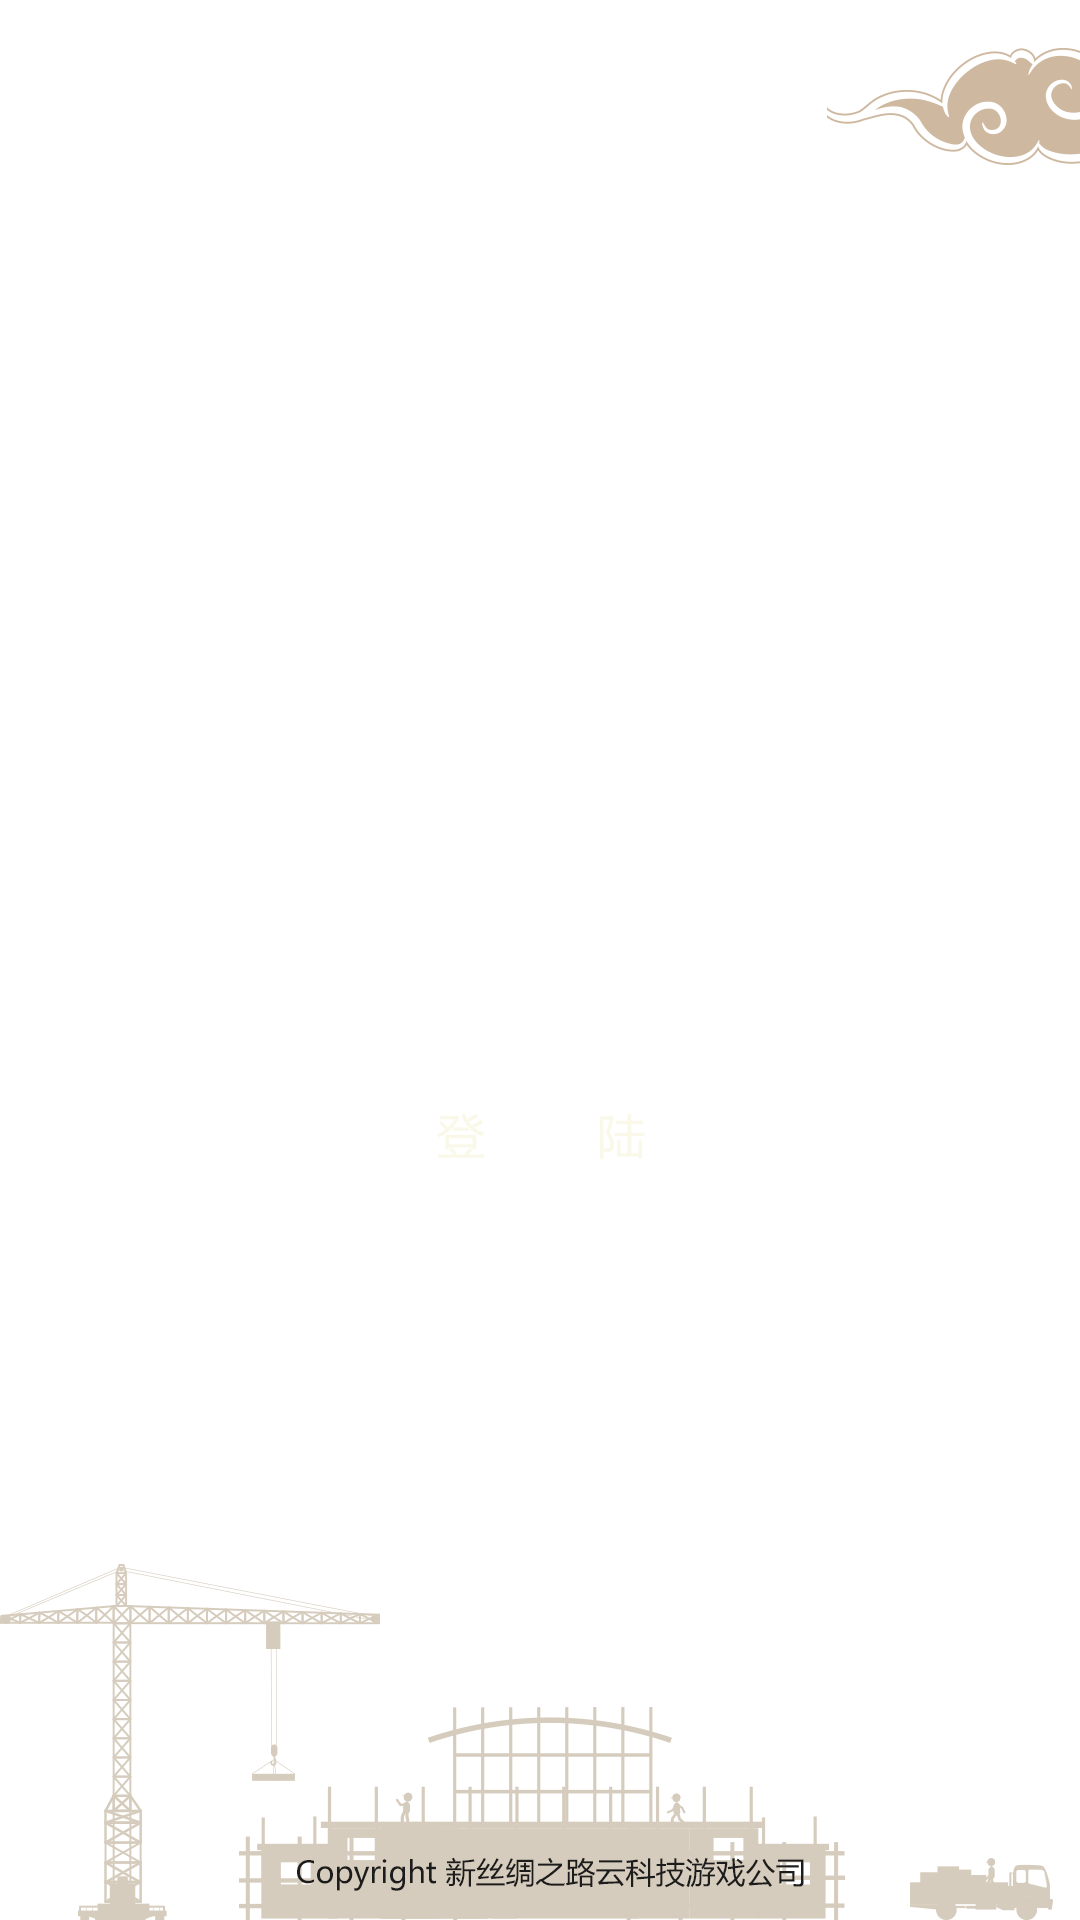
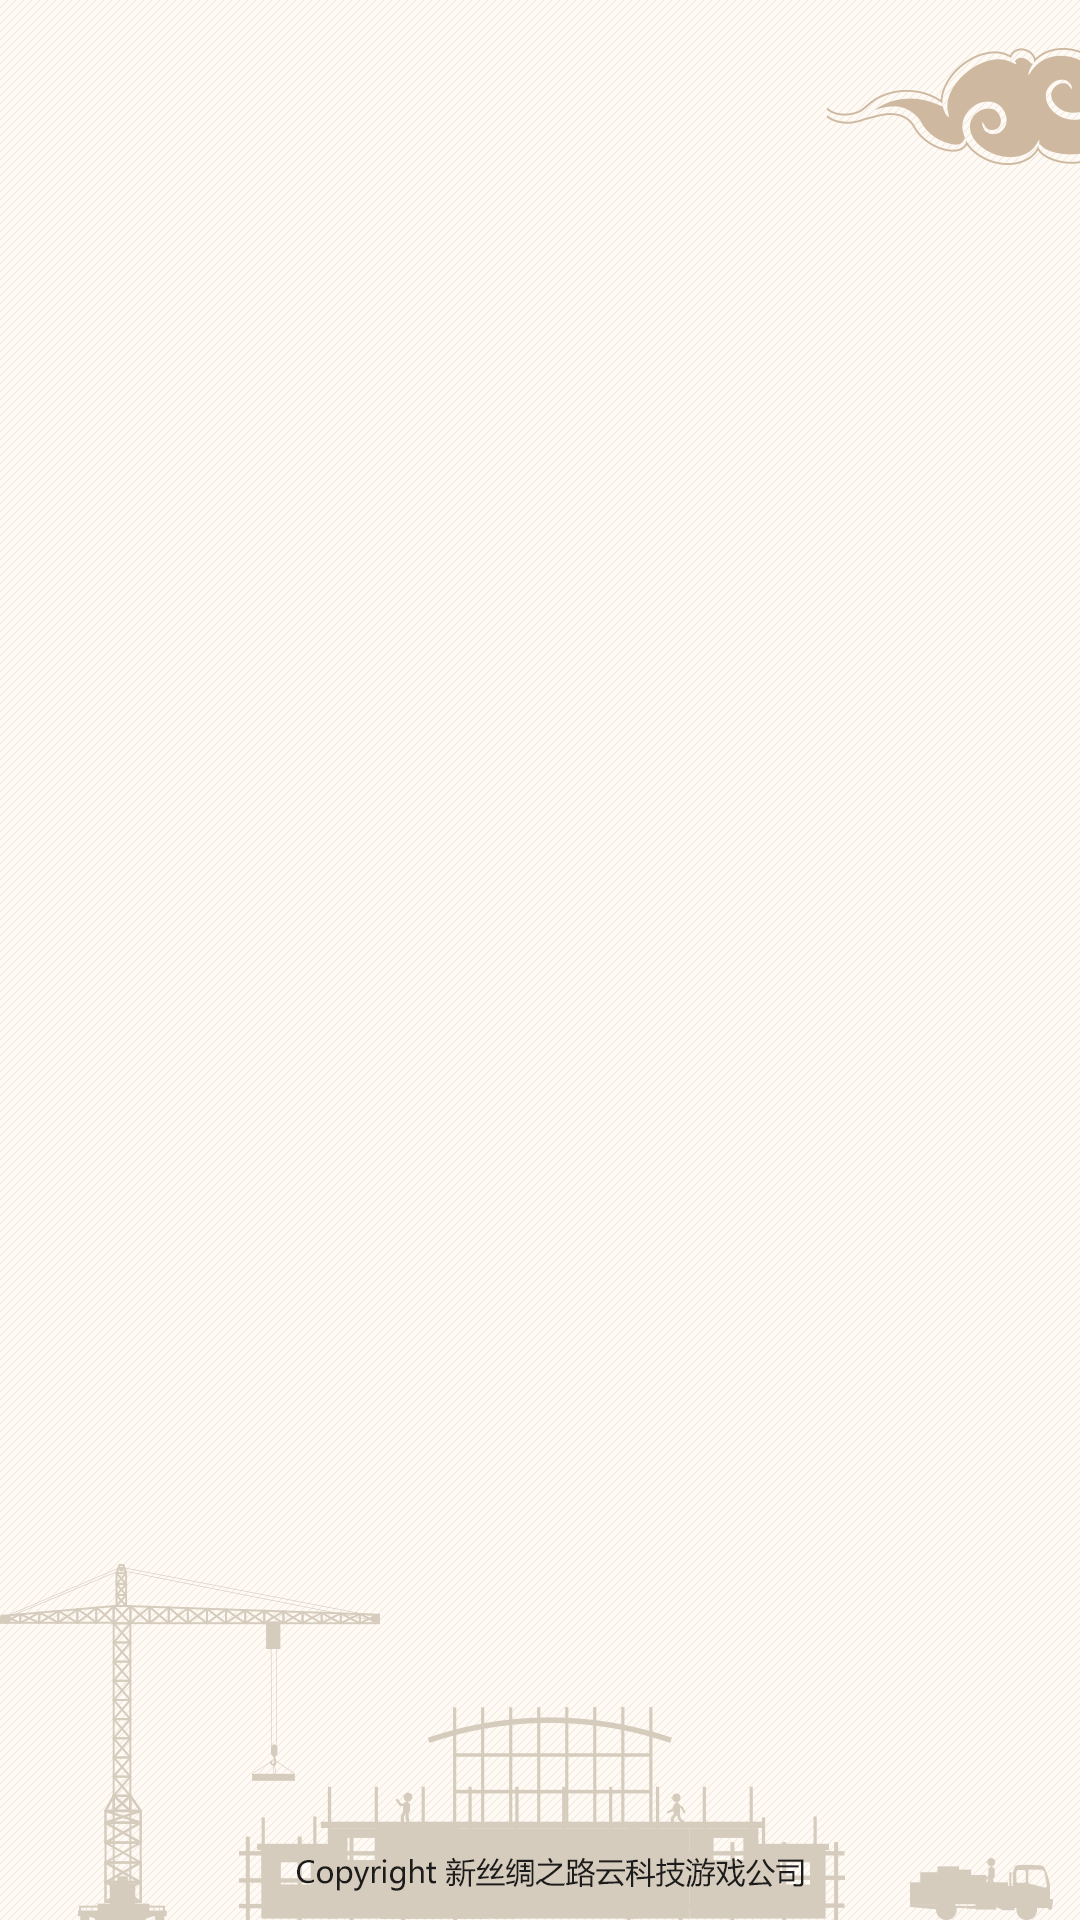
2342

Changed region(s): [[0.0, 0.0, 1.0, 1.0]]

diff --git a/Public/Css/center.css b/Public/Css/center.css
@@ -160,51 +160,18 @@ body{
 .description span{
 	margin-right:50px;
 }
-/* 固定尾部开始    与张涛做的css代码一致*/
-
-.bottom_menu {
-    height: 50px;
-    padding: 0 10px;
-    position: fixed;
-    right: 0;
-    left: 0;
-    bottom: 0;
-    background: #fff;
-    border-top: 1px solid #ddd;
-    display: -webkit-box;
-}
-.bottom_menu .home {
-    background:url("../Img/footer/home.png") no-repeat center 8px; 
-   /*  background:url("../Img/footer/index-footer-icon.png") no-repeat;
-	background-position:-80px 10px;   */
-    background-size: 22px 22px; 
-}
-.bottom_menu a {
-    display: block;
-    -webkit-box-flex: 1;
-    padding-top: 30px;
-    text-align: center;
-    color: #888;
-    font-size: 14px;
-}
-.bottom_menu .cart {
-    background: url(../Img/footer/supply.png) no-repeat center 8px;
-    background-size: 22px 22px;
-    position: relative;
-}
-.bottom_menu .center {
-    background: url(../Img/footer/center.png) no-repeat center 8px;
-    background-size: 22px 22px;
-}
 /* 固定尾部 结束*/
 /* 地址管理 开始*/
+.region-right-icon{
+	width:60%;
+}
 .region-main{
 	color:#464646;
-	width:400px;
+	width:60%;
 }
 .region-title{
 	margin-bottom:10px;
-	width:500px;
+	width:100%;;
 }
 .region-title #tel{
 	margin-left:200px;
@@ -220,6 +187,10 @@ body{
 /* 我的订单管理 开始*/
 /* 我的订单 结束*/
 /* 基本信息修改*/
+.myInfo{
+background-color:#ffffff;
+	margin-top:10px;	
+}
 .info-head{
 	height:100px;
 	padding: 0 15px;
@@ -234,6 +205,9 @@ body{
 .info-head .head_img{
 	width:100px;
 	position:absolute;left:35%;
+}
+.myInfo .weui-label,.weui-cell__bd,.weui-select{
+	color:#5C5C5C;
 }
 /* 基本信息 结束*/
 /* 我的订单 开始*/

diff --git a/Login/login.html b/Login/login.html
@@ -4,12 +4,14 @@
         <meta charset="UTF-8">
         <meta name="viewport" content="width=device-width,initial-scale=1,user-scalable=0">
         <title>登陆</title>
-         <link rel="stylesheet" href="../Public/css/weui.css">
-         <link rel="stylesheet" href="../Public/css/weui.min.css">
-		<link rel="stylesheet" href="../Public/css/jquery-weui.min.css">
-	   <link rel="stylesheet" href="../Public/css/login.css"/>
+       <link rel="stylesheet" href="../Public/css/weui.min.css"/>
+	 <link rel="stylesheet" href="../Public/css/weui.min.0.4.3.css"/>
+	 	<link rel="stylesheet" href="../Public/css/jquery-weui.min.css">
+          <link rel="stylesheet" type="text/css" href="../Public/font/iconfont.css">
+          <link rel="stylesheet" href="../Public/css/common.css"/>
 	   <link rel="stylesheet" href="../Public/css/common.css"/>
 	   <link rel="stylesheet" href="../Public/css/center.css"/>
+	   <link rel="stylesheet" href="../Public/css/login.css"/>
     </head>
     <body id="login">
     <div class="login-content">
@@ -42,7 +44,6 @@
 		  <a href=""id="btn-custom-theme" class="weui-btn weui_btn_primary ">登&nbsp;&nbsp;&nbsp;陆</a> 
 		  </div>
 		  </div>
-		  	<div class="height20px"></div>
 		  	<div class="height20px"></div>
 		<div class="weui-row reg-forgetpassword">
 		  <div class="weui-col-50">  

diff --git a/UCenter/myInfo.html b/UCenter/myInfo.html
@@ -14,9 +14,19 @@
 </head>
 <body>
 <div id="app">
-	<div id="main">
-		<div class="page">
-            <div class="info-head ">
+<div id="topback-header">
+ 				<div id="header-left">
+	 				 <a href="javascript:history.go(-1);" >
+	                      <i class="icon iconfont icon-xiangzuo"></i>
+	                  	    <span class="title">基本资料</span>
+	               	 </a>
+ 				</div>
+                <div id="header-right">
+                </div>
+		</div>
+    
+		<div class="myInfo">
+            <div class="info-head">
                     <div class="head_img ">
                         <img src="../Public/img/index/index_headimg2.jpg" alt="">
                     </div>
@@ -66,11 +76,10 @@
                            </div>
                            </a>
                        </div>
-                    <div class="height20px" ></div>
-                    <div class="height20px" ></div>
-             <a href="" id="btn-custom-theme" class="weui-btn weui-btn_primary">保存</a>
 		</div>
-	</div><!--main-->		
+		<div class="height20px" ></div>
+                    <div class="height20px" ></div>
+             <a href="" id="btn-custom-theme" class="weui-btn weui-btn_primary">保&nbsp;&nbsp;&nbsp;&nbsp;存</a>
 </div><!--app-->
 </body>
 <script src="../Public/js/zepto.js"></script>

diff --git a/Login/reg.html b/Login/reg.html
@@ -4,12 +4,14 @@
         <meta charset="UTF-8">
         <meta name="viewport" content="width=device-width,initial-scale=1,user-scalable=0">
         <title>登陆</title>
-        <link rel="stylesheet" type="text/css"  href="../Public/css/weui.css"/>
-        <link rel="stylesheet" type="text/css" href="../Public/css/common.css"/>
+     <link rel="stylesheet" href="../Public/css/weui.min.css"/>
+	 <link rel="stylesheet" href="../Public/css/weui.min.0.4.3.css"/>
+	 	<link rel="stylesheet" href="../Public/css/jquery-weui.min.css">
+        <link rel="stylesheet" href="../Public/css/center.css"/>
+          <link rel="stylesheet" href="../Public/css/common.css"/>
         <link rel="stylesheet" type="text/css" href="../Public/css/center.css"/>
         <link rel="stylesheet" type="text/css" href="../Public/css/login.css"/>
          <link rel="stylesheet" type="text/css" href="../Public/font/iconfont.css">
-         	<link rel="stylesheet" href="../Public/css/jquery-weui.min.css">
         <script>
 /**
  * 全局变量
@@ -29,7 +31,7 @@ var USER_UN_SETTING = '{$unsetting}';
 var LANG = new Array();
 </script>
     </head>
-    <body id="login">
+    <body id="reg">
 		<div id="topback-header">
  				<div id="header-left">
 	 				 <a href="javascript:history.go(-1);" >

diff --git a/UCenter/index.html b/UCenter/index.html
@@ -5,6 +5,8 @@
 	<title>个人主页</title>
 	<meta name="viewport" id="viewport" content="width=device-width, initial-scale=1">
 	<link rel="stylesheet" href="../Public/css/weui.css"/>
+	<link rel="stylesheet" href="../Public/css/common.css"/>
+	<link rel="stylesheet" type="text/css" href="../Public/font/iconfont.css">
 	<link rel="stylesheet" href="../Public/css/center.css"/>
         <!-- 多语言 -->
         <script>  
@@ -163,11 +165,14 @@
 	<div class="height20px"></div>
 	<div class="height20px"></div>
 	<div class="height20px"></div>
-		<div class="bottom_menu">
-			<a class="home" href="index.html">首页</a> 
-			<a class="cart" href="mySupply.html">供求</a> 
-			<a class="center" href="myInfo.html">我</a>
-		</div><!--bottom_menu  -->
+	<div class="bottom_menu">
+		<a class="home" href="../index.html">
+			<i class="icon iconfont icon-shouyeshouye"></i> <span>首页</span></a>
+		<a class="cart" href="../supply-demand.html">
+			<i class="icon iconfont icon-fujin1"></i><span>供求</span></a>
+		<a class="center" href="index.html">
+			<i class="icon iconfont icon-wode"></i><span>我</span></a>
+	</div><!--bottom_menu  -->
 </div><!--app-->
 </body>
 <script src="../Public/js/zepto.js"></script>

diff --git a/UCenter/region.html b/UCenter/region.html
@@ -23,15 +23,14 @@
                 	<a href="addRegion.html"><span>新增</span></a>
                 </div>
 		</div>
-	<div id="main">
-		<div class="page">
+		<div class="region">
 			<div class="weui-cells">
 			    <div class="weui-cell">
 			        <div class="weui-cell__bd region-main">
 			            <p class="region-title"><span id="name">马晓成</span> <span id="tel">15909581102</span></p>
 			            <p class="region-content">宁夏银川市文昌北街明实楼A617</p>
 			        </div>
-			         <div class="weui-cell__bd">
+			         <div class="weui-cell__bd region-right-icon">
 			           <a href="editRegion.html"><p class="region-right"><img alt="" src="../Public/img/edit.png"></p></a>
 			        </div>
 			    </div>
@@ -54,7 +53,6 @@
 			        </div>
 			    </div>
 			</div>
-	</div><!--main-->
 </div><!--app-->
 </body>
 <script src="../Public/js/zepto.js"></script>

diff --git a/Public/Css/login.css b/Public/Css/login.css
@@ -4,11 +4,12 @@
 	background-attachment: fixed;" 
 }
 .login-content{
-	background-color:#FDF8F2;
+	margin:0px auto;
+	postion:absolute;
+	top:20%;
 }
 #login .weui-row{
 	padding-left:10px;
-	background-color:#FDF8F2;
 }
 .logo{
 	clear:both;
@@ -19,13 +20,20 @@
 .logo img{
 	margin:auto;
 	clear:both;
+	width:35%;
+	height:35%;
 }
 .login-form .weui_cell{
-/* 	border-bottom:1px solid #595757; */
+ 	border-bottom:1px solid #595757;
 	margin-bottom:2px;
-	background-color:#FDF8F2;
+	background-color:#FAF5EF;
 }
 .reg-forgetpassword a{
 	color:#595856;
 	margin-left:30%;
+}
+#reg{
+	 background: url(../Img/login/reg-bc.png) no-repeat center;
+	background-size:100% 100%; 
+	background-attachment: fixed;" 
 }

diff --git a/Public/css/common.css b/Public/css/common.css
@@ -68,7 +68,7 @@ body{
 	width:100%;
 	display:block;
 	margin-top:13px;
-	font-size:14px;
+	font-size:16px;
 }
 #topback-header  #header-right{
 	float:right;
@@ -97,3 +97,31 @@ body{
 	color:#ffffff;
 	border:0px;
 }
+/* 固定尾部开始    与张涛做的css代码一致*/
+
+.bottom_menu {
+	height: 50px;
+	padding: 0 10px;
+	position: fixed;
+	right: 0;
+	left: 0;
+	bottom: 0;
+	background: #fff;
+	border-top: 1px solid #ddd;
+	display: -webkit-box;
+}
+.bottom_menu a {
+	display: block;
+	-webkit-box-flex: 1;
+	text-align: center;
+	color: #888;
+	font-size: 14px;
+	padding-top: 6px;
+}
+.bottom_menu a:active{
+	color: #BF6E09;
+}
+.bottom_menu a span{
+	display: block;
+}
+

diff --git a/UCenter/addJob.html b/UCenter/addJob.html
@@ -30,7 +30,7 @@
             <div class="push_box push_pinfo">
                 <div class="weui-cell">
                     <div class="weui-cell__bd">
-                        <input class="weui-input" type="text" placeholder="这里是标题">
+                        <input class="weui-input" type="text" placeholder="输入标题">
                     </div>
                 </div>
                 <div class="weui-cells weui-cells_form" style="margin-top: 0;">
